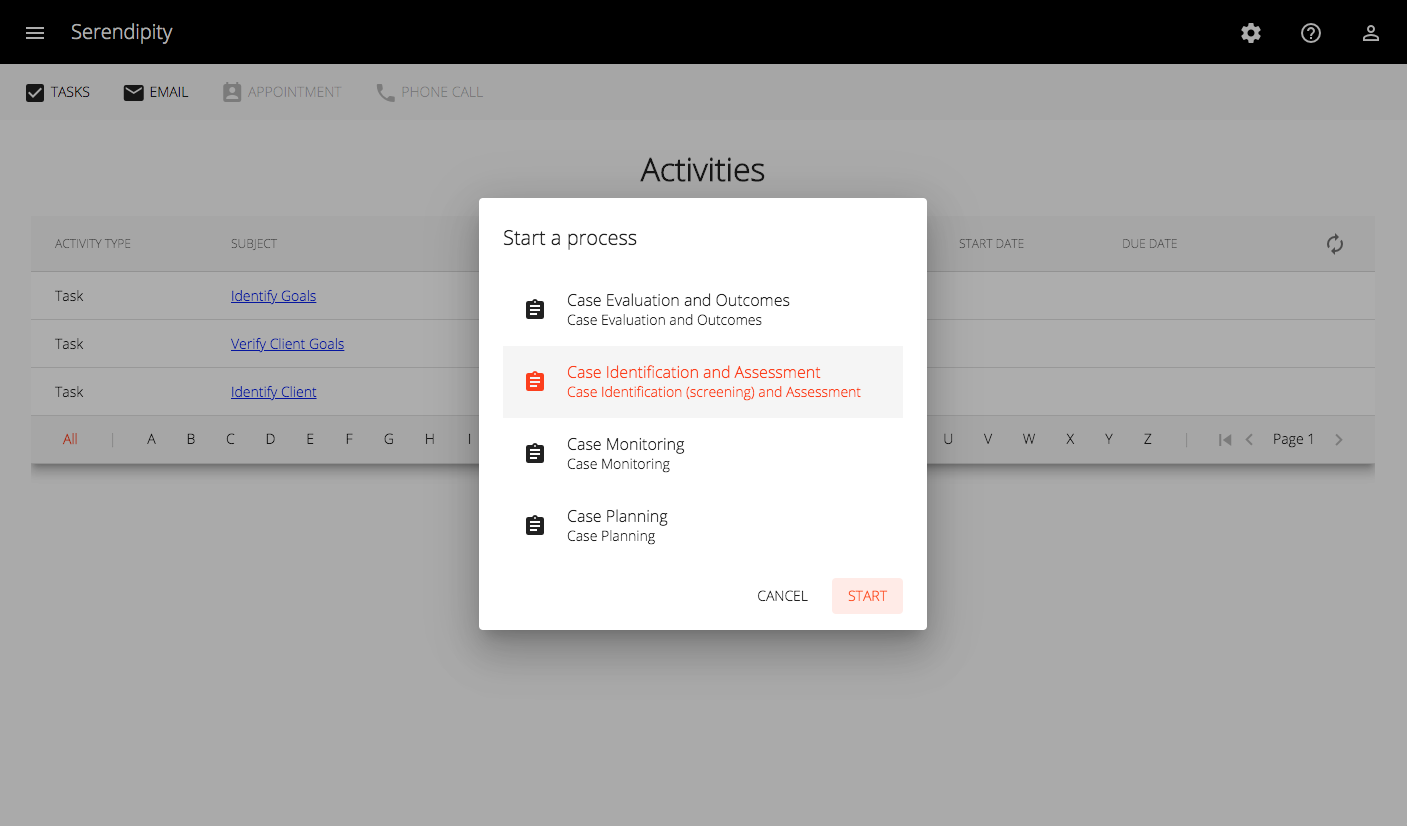
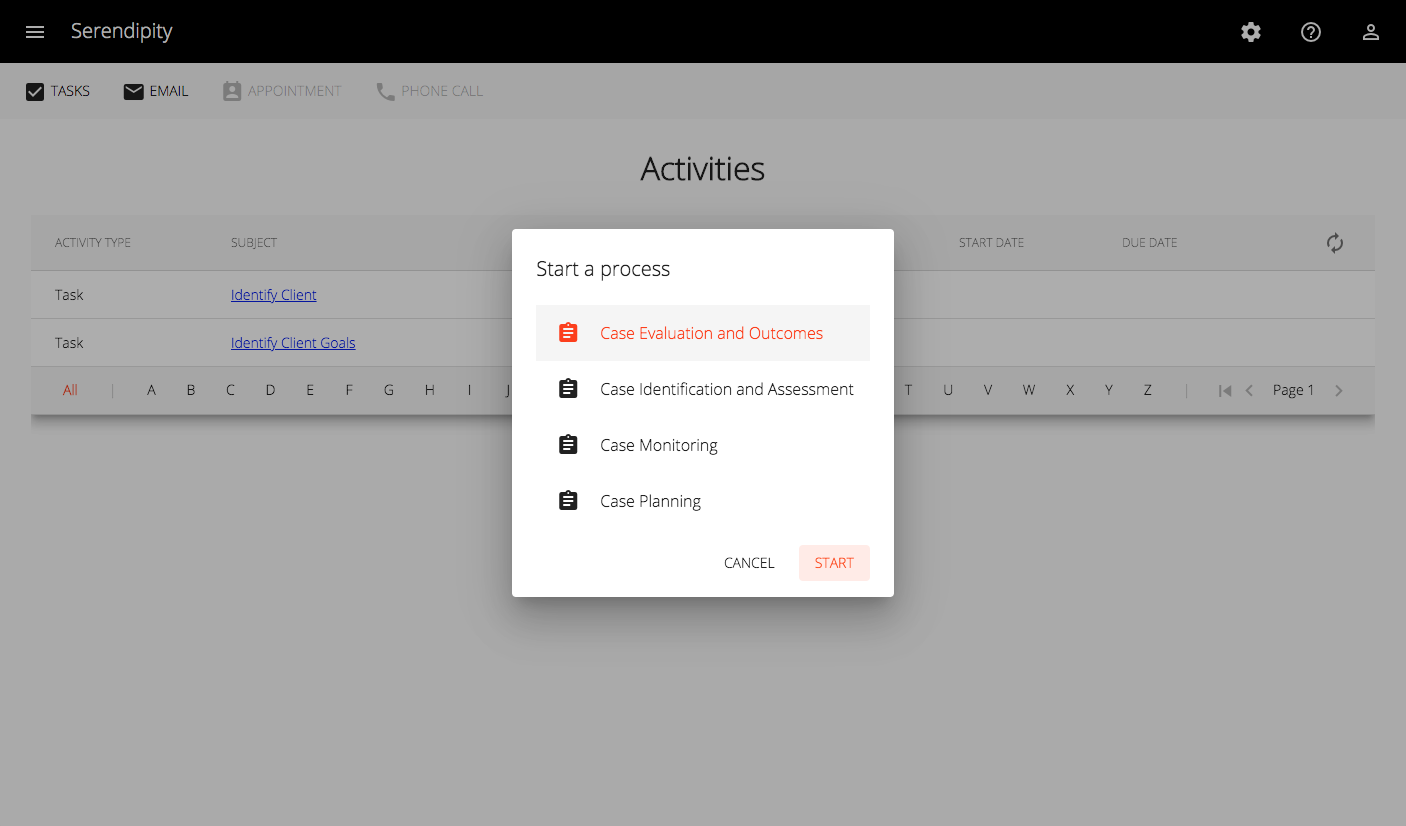
Updated the Work library forms

diff --git a/projects/flowable/src/lib/components/process-list/process-list.component.scss b/projects/flowable/src/lib/components/process-list/process-list.component.scss
@@ -1,40 +1,10 @@
-$process-list-width: 400px;
+$process-list-height: calc(56px * 4);
+$process-list-width: 400;
 
 .process-list-container {
   display: grid;
   grid-template-columns: $process-list-width auto;
   column-gap: 0;
+  height: $process-list-height;
   margin: 0;
 }
-
-/*
-
-<div class="crm-activities-container">
-<div class="crm-task-list-container">
-
-$task-list-width: 320px; // 240px;
-
-.crm-activities-container {
-  display: grid;
-  grid-template-columns: $task-list-width auto;
-  // grid-template-rows: 100%; deprecated
-  // grid-template-rows: auto;
-  // grid-template-rows: minmax(250px, auto);
-  column-gap: 32px;
-  // row-gap: 1em;
-
-  margin-top: 0;
-  margin-left: 32px;
-  margin-bottom: 32px;
-  margin-right: 32px;
-
-  // overflow: auto;
-  // overflow: hidden;
-}
-
-.crm-task-list-container {
-  // background: white;
-  border: 1px solid lightgray;
-}
-
-*/

diff --git a/projects/flowable/src/lib/components/process-list/process-list.component.html b/projects/flowable/src/lib/components/process-list/process-list.component.html
@@ -1,6 +1,29 @@
 <div class="process-list-container">
 
-  <div>
+  <mat-nav-list style="padding-top: 0">
+
+    <a *ngFor="let item of items"
+       mat-list-item
+       [class.list-item-active]="item === selectedItem"
+       (click)="onSelect(item)">
+
+      <mat-icon matListIcon class="crm-task-list-icon"> assignment </mat-icon>
+
+      <p mat-line>
+        {{item.name}}
+      </p>
+
+    </a>
+
+  </mat-nav-list>
+
+</div>
+
+<!--
+
+<div class="process-list-container">
+
+  <div style="height: 224px;">
 
     <mat-nav-list style="padding-top: 0">
 
@@ -15,10 +38,6 @@
           {{item.name}}
         </p>
 
-        <p mat-line>
-          {{item.description}}
-        </p>
-
       </a>
 
     </mat-nav-list>
@@ -26,3 +45,6 @@
   </div>
 
 </div>
+
+
+-->
